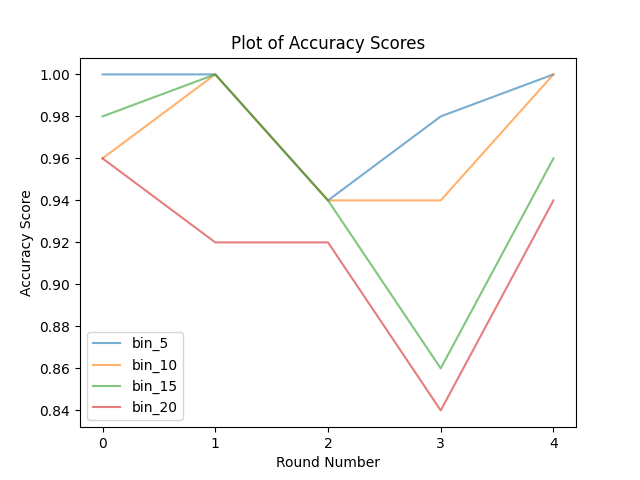
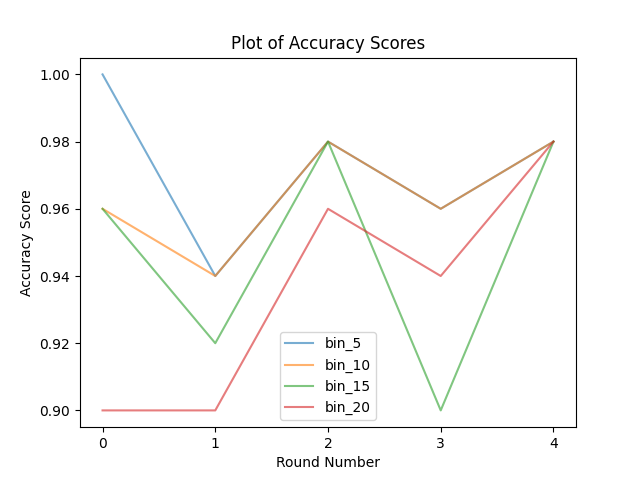
add working

diff --git a/src/main.py b/src/main.py
@@ -68,7 +68,6 @@ def main() -> None:
 
                 for feature in test_x.columns[:-1]:
                     prod_setosa *= probabilities[Labels.SETOSA][feature][test_x[feature].iloc[row]]
-                    print("Bin?: ", test_x[feature].iloc[row])
                     prod_not_setosa *= probabilities[Labels.NOTSETOSA][feature][test_x[feature].iloc[row]]
                     
                 
@@ -93,7 +92,6 @@ def main() -> None:
             F1_measure[bin_string].append(2*precision*recall/(precision+recall))
             TPR[bin_string].append(true_pos / (true_pos + false_neg))
             FPR[bin_string].append(false_pos/ (true_neg+false_pos))
-            break
 
     
     
@@ -146,10 +144,3 @@ def main() -> None:
 
 if __name__ == "__main__":
     main()
-
-
-
-
-
-
-
